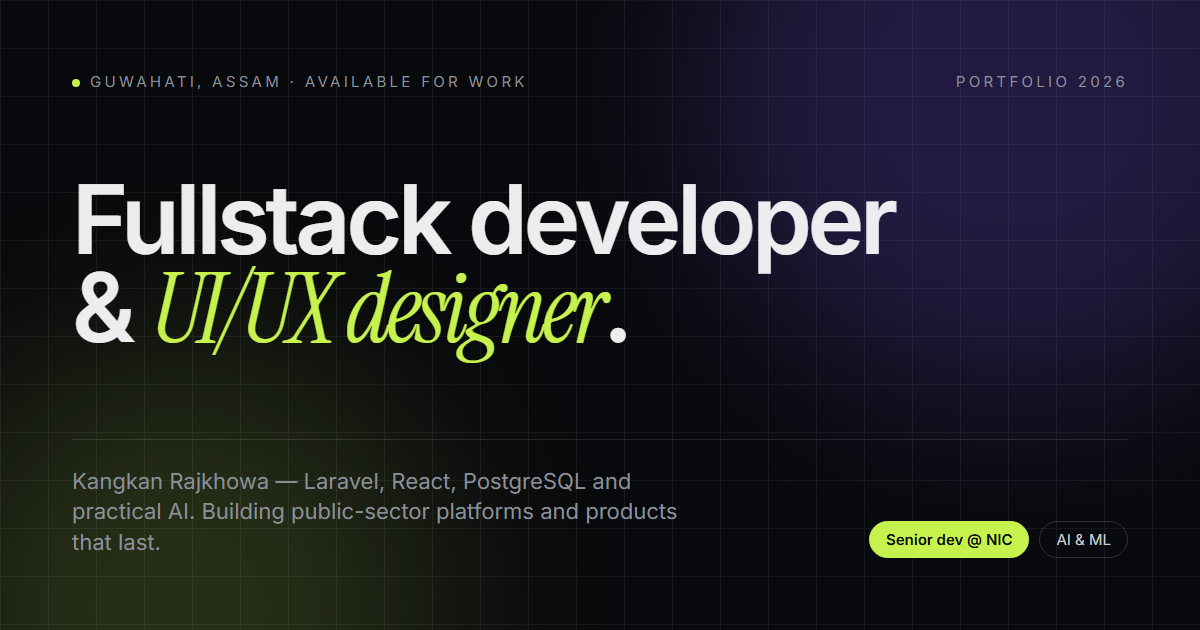
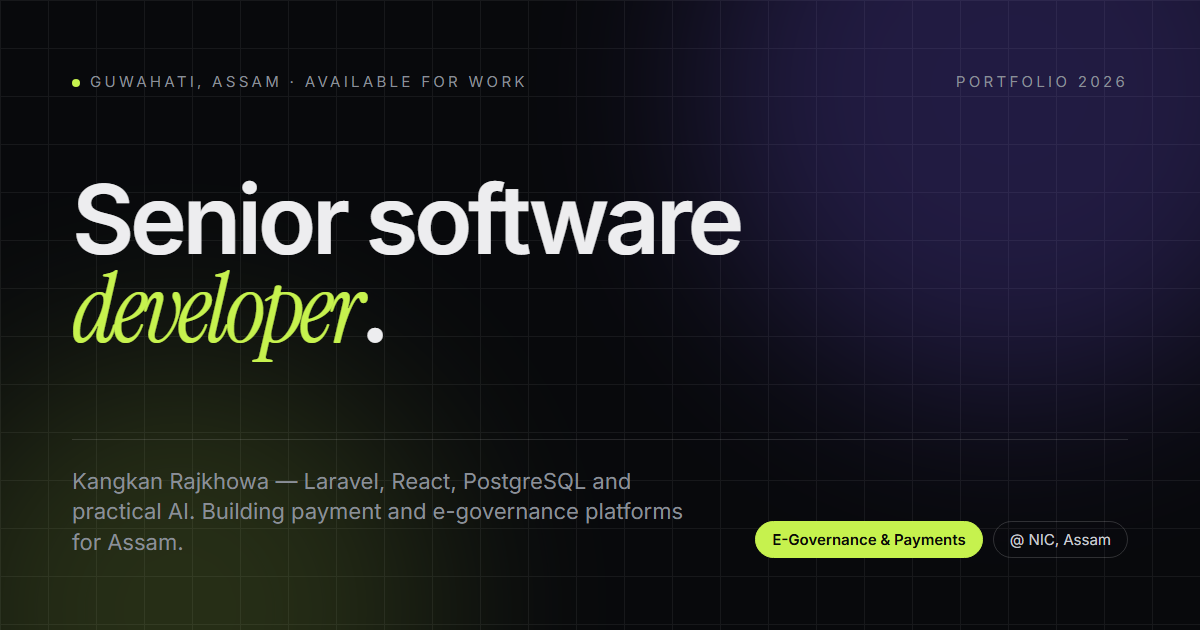
Render the social card from the current positioning, in CI
The preview anyone sees when the portfolio is shared still announced
"Fullstack developer & UI/UX designer", and og.png was only ever refreshed by
running the script by hand. The card now reads Senior software developer with
E-Governance & Payments and NIC badges, the image alt matches, and the deploy
workflow renders it before the build so it cannot drift again.

diff --git a/src/app/layout.tsx b/src/app/layout.tsx
@@ -85,7 +85,7 @@ export const metadata: Metadata = {
         url: asset("/og.png"),
         width: 1200,
         height: 630,
-        alt: "Kangkan Rajkhowa — Fullstack Developer & Product Engineer",
+        alt: "Kangkan Rajkhowa — Senior Software Developer",
       },
     ],
   },
